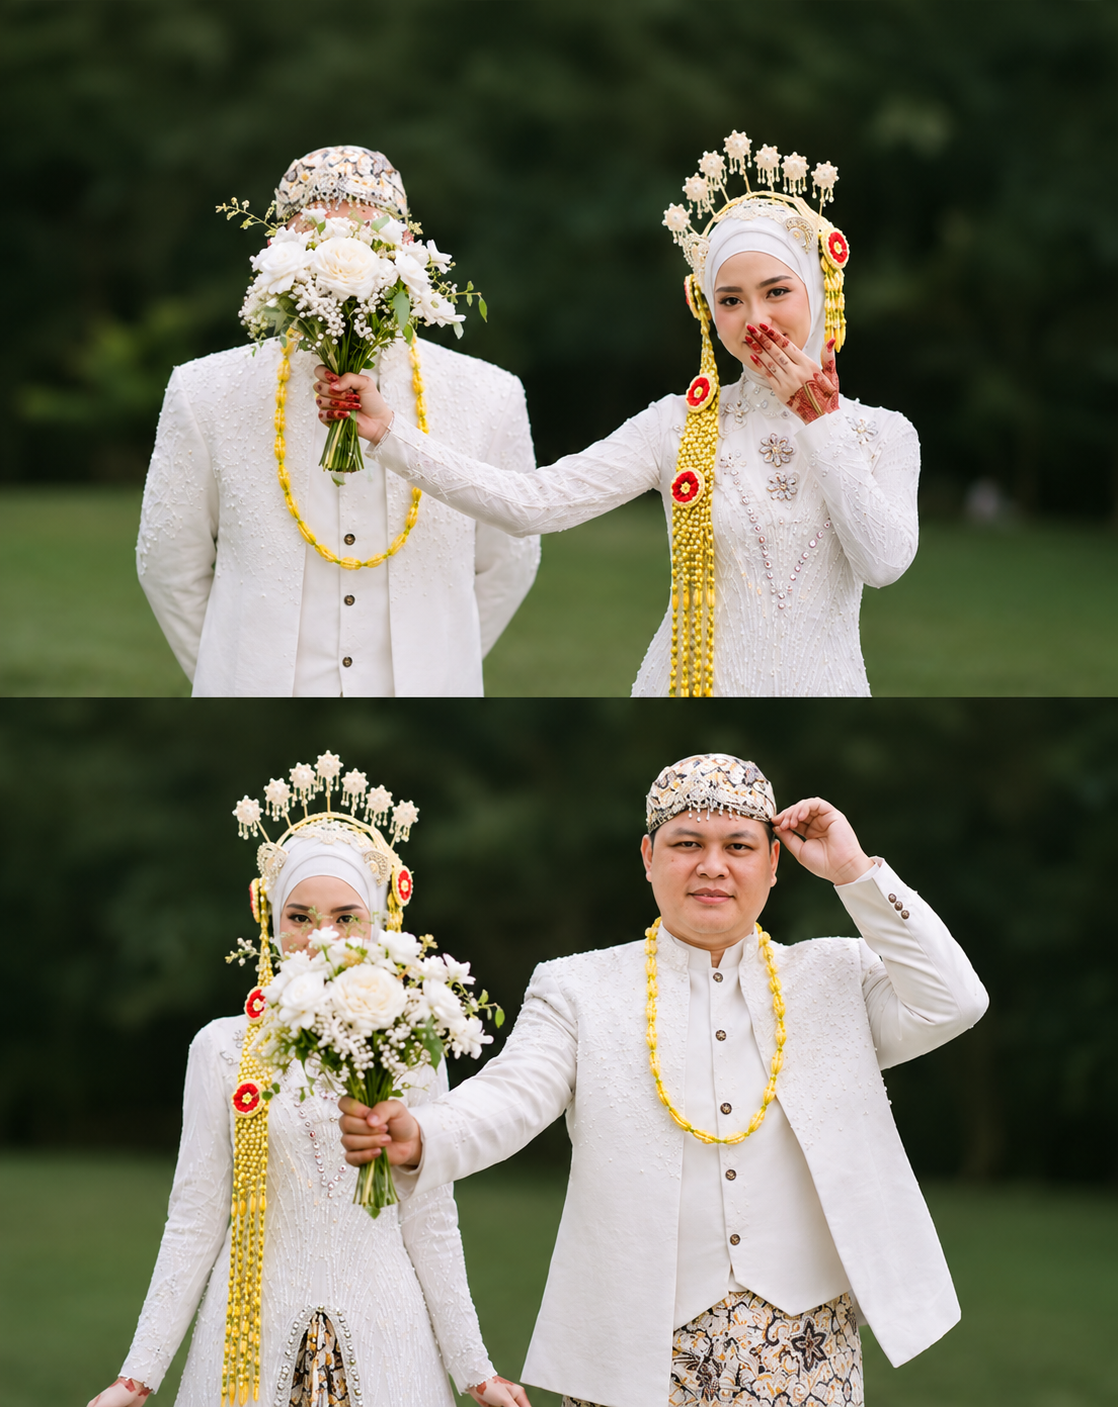
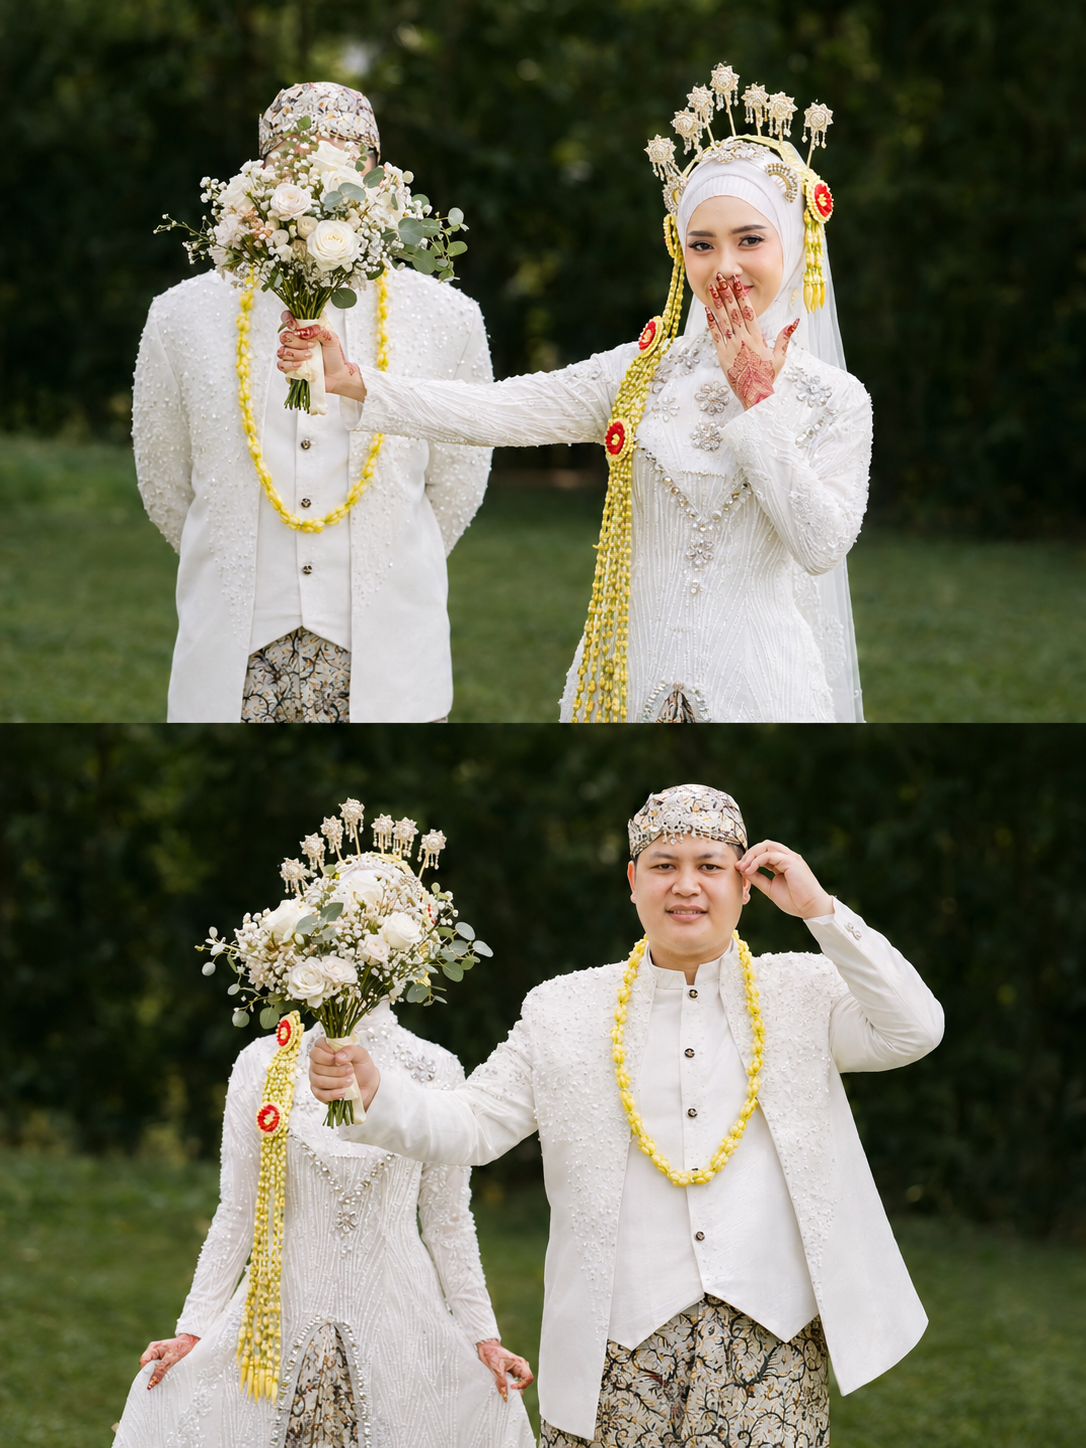
Replace third story gallery photo only

diff --git a/index.html b/index.html
@@ -38,7 +38,7 @@
   <div class="story-track" id="story-track">
     <figure class="story-slide"><img src="./assets/cerita-bingkai-01.png" alt="Kolase foto pernikahan Dipta dan Frengky" loading="lazy"><figcaption>01 — Tasyakuran Pernikahan</figcaption></figure>
     <figure class="story-slide"><img src="./assets/cerita-bingkai-02.png" alt="Dipta dan Frengky memegang buku nikah" loading="lazy"><figcaption>02 — Momen Bahagia</figcaption></figure>
-    <figure class="story-slide"><img src="./assets/cerita-bingkai-03.png" alt="Dipta dan Frengky berpose dengan buket bunga" loading="lazy"><figcaption>03 — Cerita Kita</figcaption></figure>
+    <figure class="story-slide"><img src="./assets/cerita-bingkai-03.png?v=20261117-new" alt="Dipta dan Frengky berpose dengan buket bunga" loading="lazy"><figcaption>03 — Cerita Kita</figcaption></figure>
   </div>
   <button class="story-arrow story-prev" type="button" aria-label="Foto sebelumnya">‹</button>
   <button class="story-arrow story-next" type="button" aria-label="Foto berikutnya">›</button>
